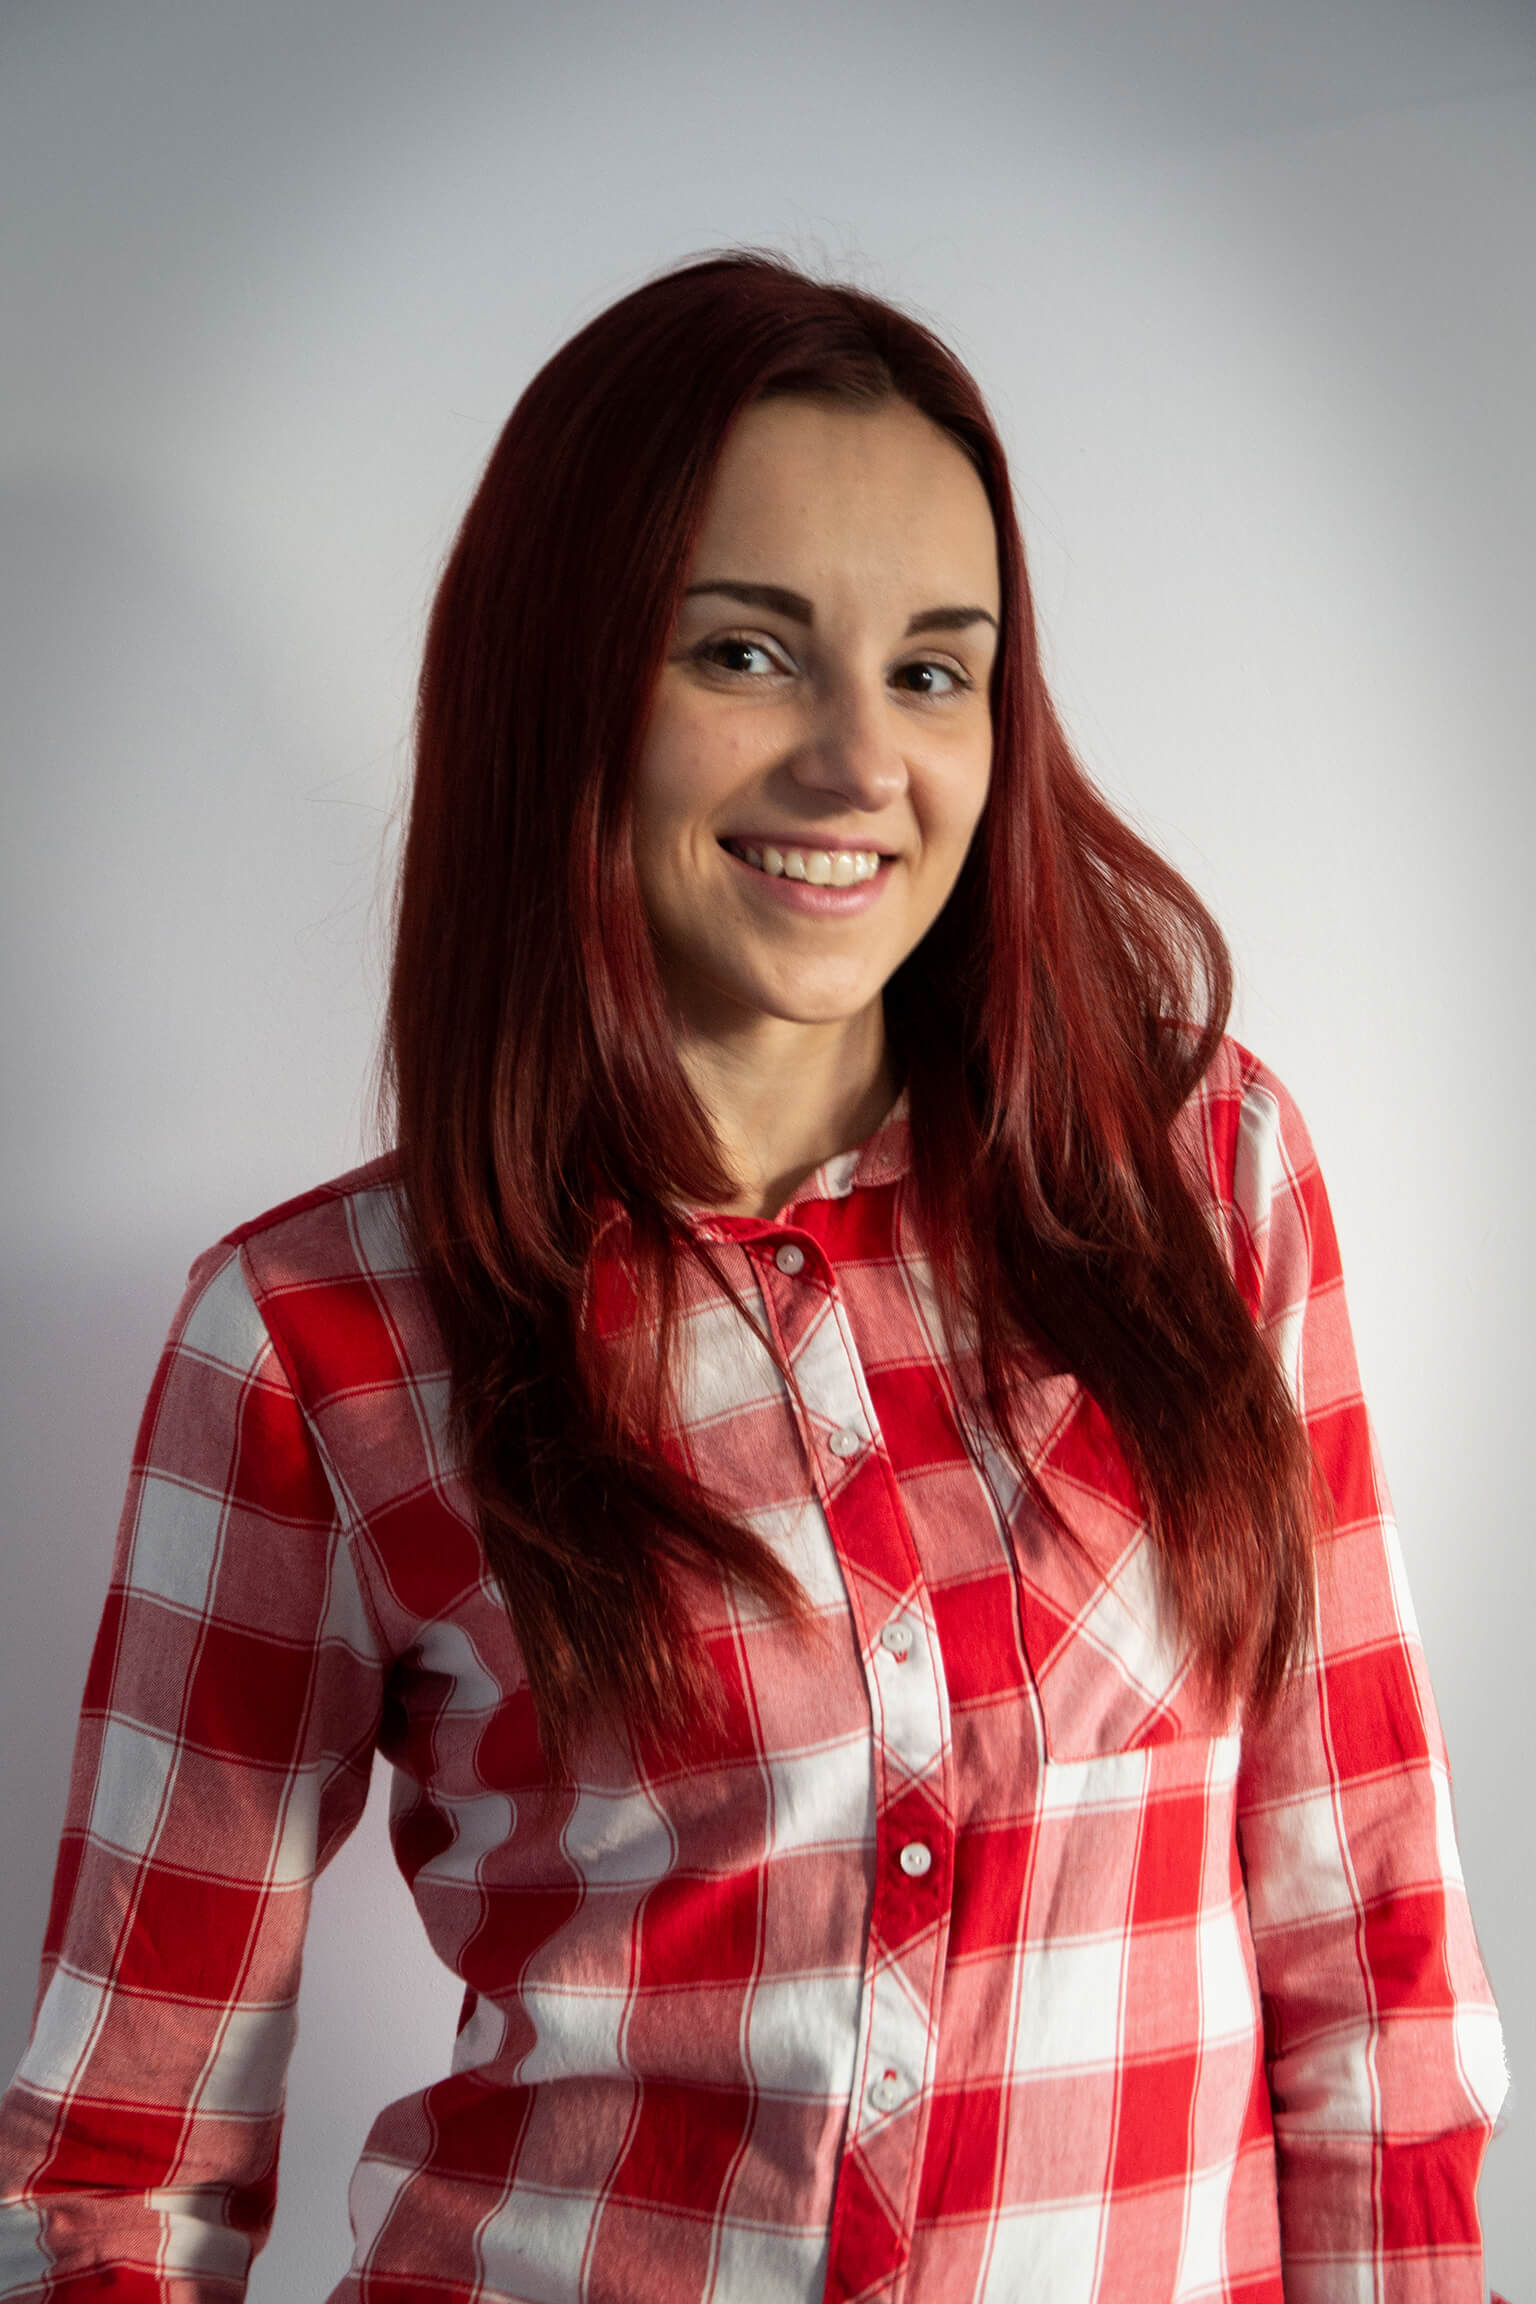
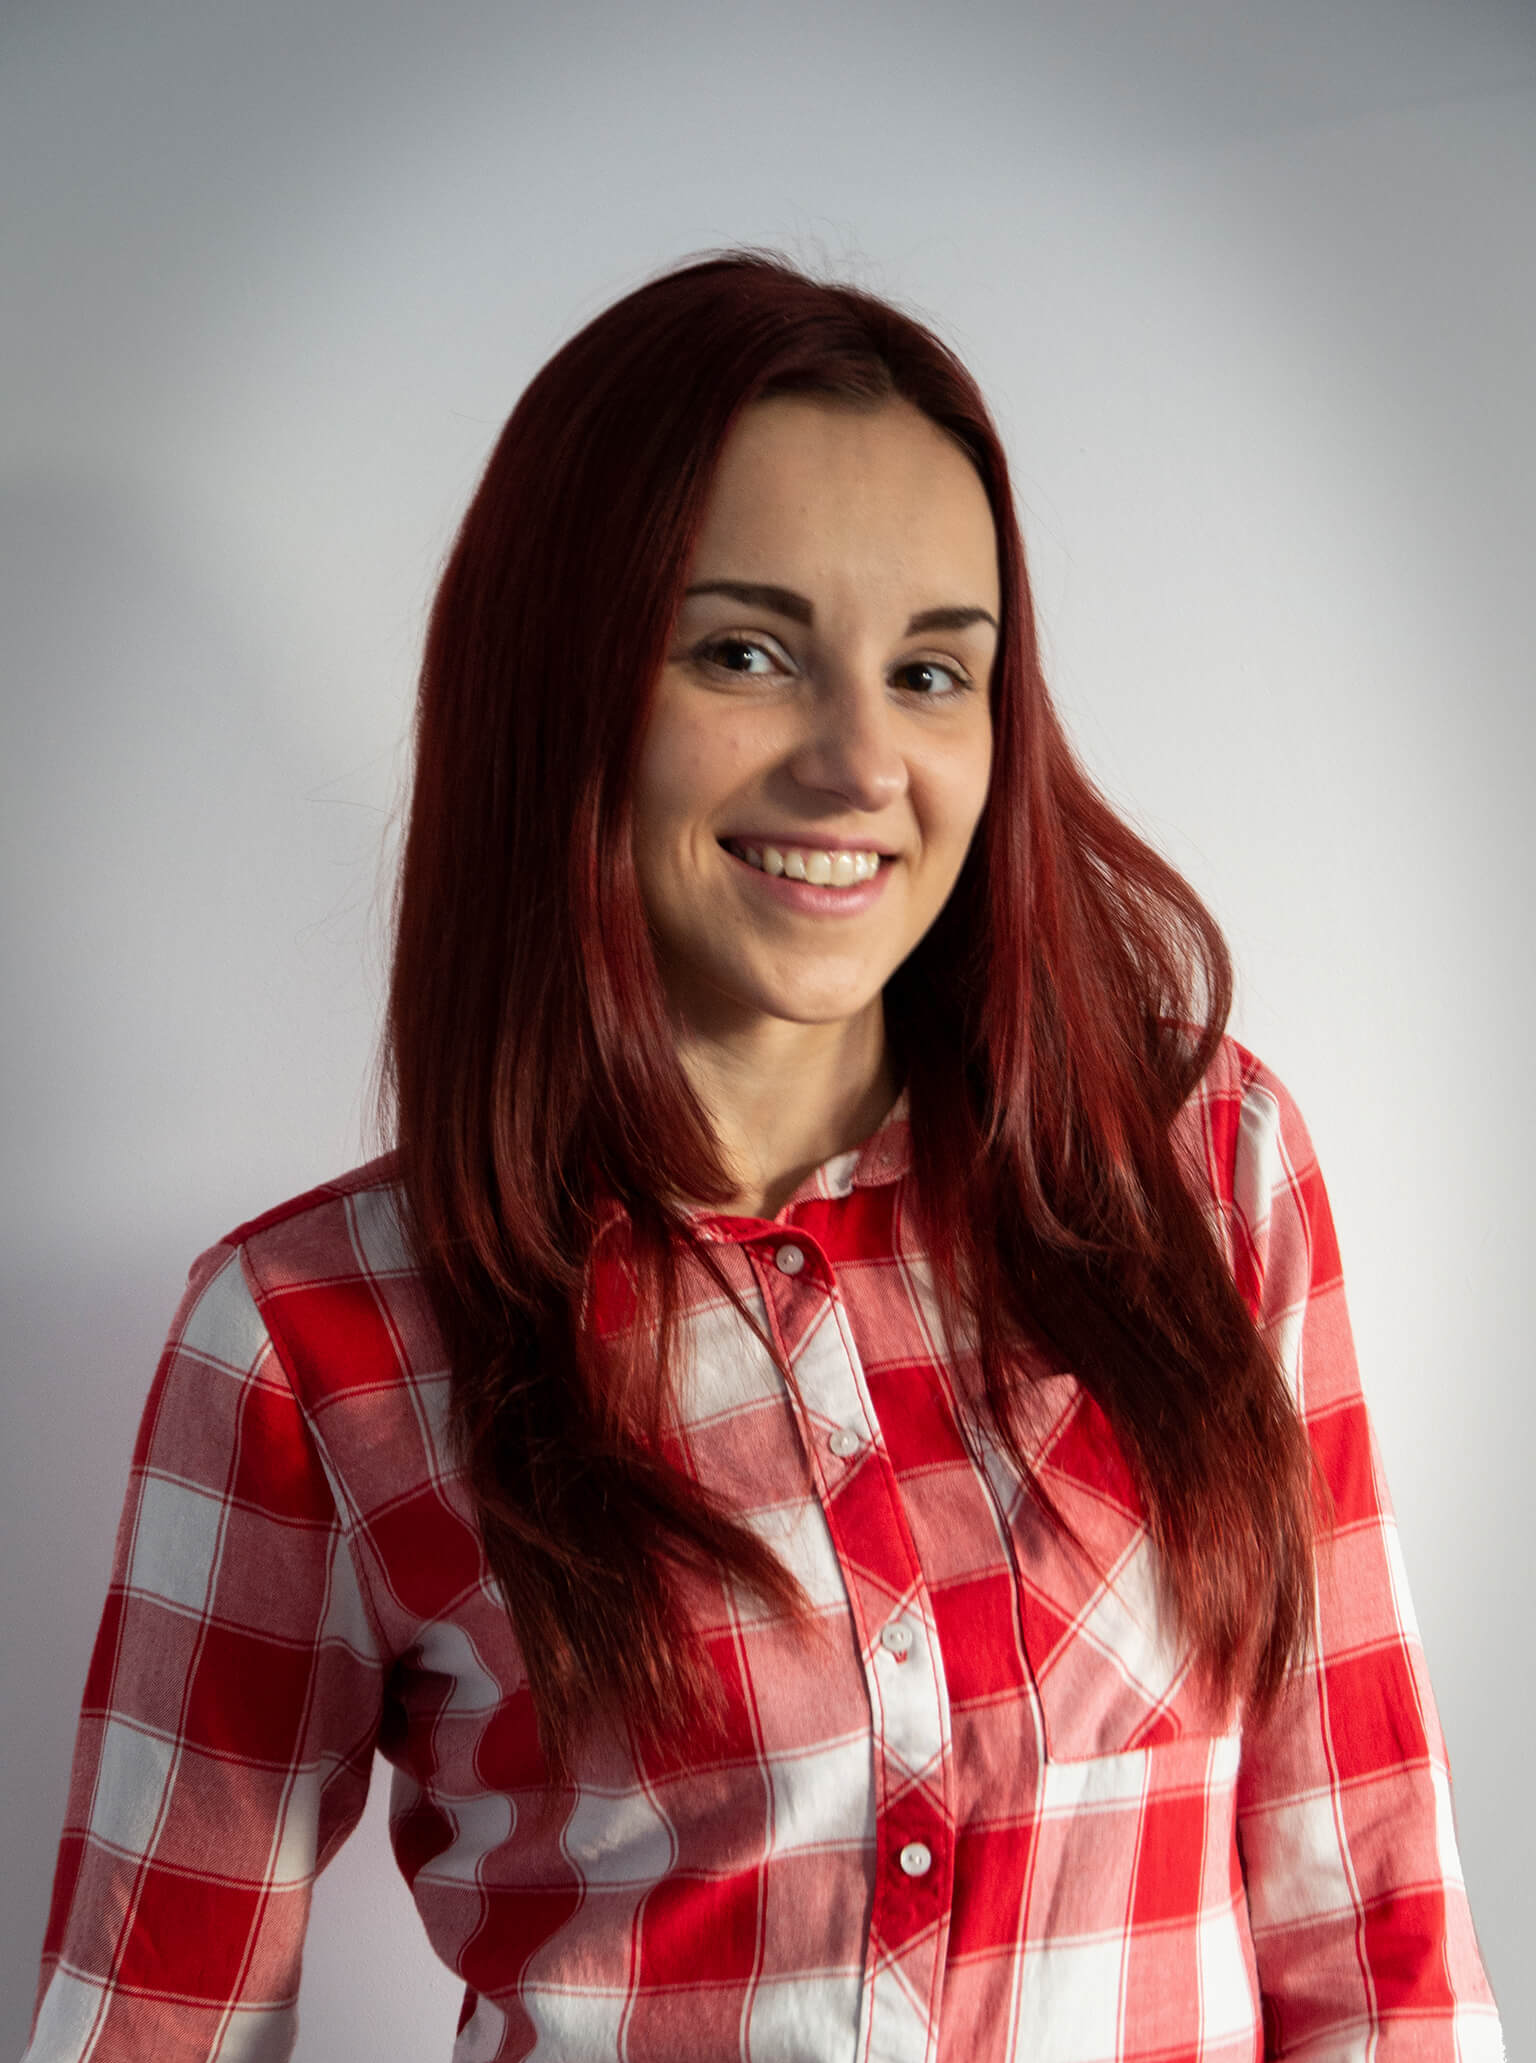
add mobile look to contact

diff --git a/src/views/Contact.vue b/src/views/Contact.vue
@@ -3,7 +3,7 @@
     <p class="decorText">Contact</p>
     <div class="info-block">
       <div class="text">
-        <p>
+        <p class="margin-top-0">
           I’m a goal-oriented person, who really wants to change career! I've
           self-studied web development for 2 years, made 1 big project and a
           couple of smaller ones, using JavaScript, React, CSS and HTML. I'm
@@ -19,11 +19,7 @@
         PORTFOLIO
       </a>
       <a class="link" href="https://www.linkedin.com/in/o-vytiahlovska/">
-        <img
-          class="linkImg"
-          src="../assets/contact/linkedin.svg"
-          alt="linkedin"
-        />
+        <img class="linkImg" src="../assets/contact/linkedin.svg" alt="linkedin" />
         LINKEDIN
       </a>
       <a class="link" href="mailto:o.vytiahlovska@gmail.com">
@@ -31,11 +27,7 @@
         o.vytiahlovska@gmail.com
       </a>
     </div>
-    <img
-      src="../assets/contact/oleksandra.jpg"
-      alt="Alex Vytiahlovska"
-      class="portrait"
-    />
+    <img src="../assets/contact/oleksandra.jpg" alt="Alex Vytiahlovska" class="portrait" />
   </main>
 </template>
 
@@ -65,10 +57,18 @@ export default {
   justify-self: center;
 }
 .info-block {
-  grid-column: 3 / 5;
+  grid-column: 2 / 7;
+  max-width: 80%;
+  justify-self: center;
 }
 .portrait {
-  grid-column: 5 / 6;
+  width: 10rem;
+  height: 10.5rem;
+  grid-row: 1 / 2;
+  grid-column: 2 / -1;
+  border-radius: 50%;
+  margin: 0 auto;
+  object-fit: cover;
 }
 .link {
   text-decoration: none;
@@ -82,7 +82,20 @@ export default {
   height: 1.7rem;
   padding: 0.7rem 0.5rem 0.7rem 0;
 }
-.portrait {
-  max-width: 100%;
+@media (min-width: 600px) {
+  .margin-top-0 {
+    margin-top: 0;
+  }
+  .info-block {
+    grid-column: 3 / 5;
+    max-width: 90%;
+    justify-self: stretch;
+  }
+  .portrait {
+    grid-column: 5 / 6;
+    width: 100%;
+    height: auto;
+    border-radius: 0;
+  }
 }
 </style>

diff --git a/src/components/Project.vue b/src/components/Project.vue
@@ -97,7 +97,7 @@ export default {
 <style scoped>
 .project {
   display: flex;
-  padding: 1rem 0.5rem;
+  padding: 0 0.5rem 2rem 0.5rem;
   justify-content: space-between;
   flex-wrap: wrap;
   cursor: pointer;

diff --git a/src/components/Navigation/Navigation.vue b/src/components/Navigation/Navigation.vue
@@ -31,7 +31,7 @@ export default {
   flex-direction: column;
   padding: 0.8rem;
   align-items: center;
-  padding-bottom: 0;
+  padding-bottom: 1rem;
 }
 @media (min-width: 600px) {
   .header {
